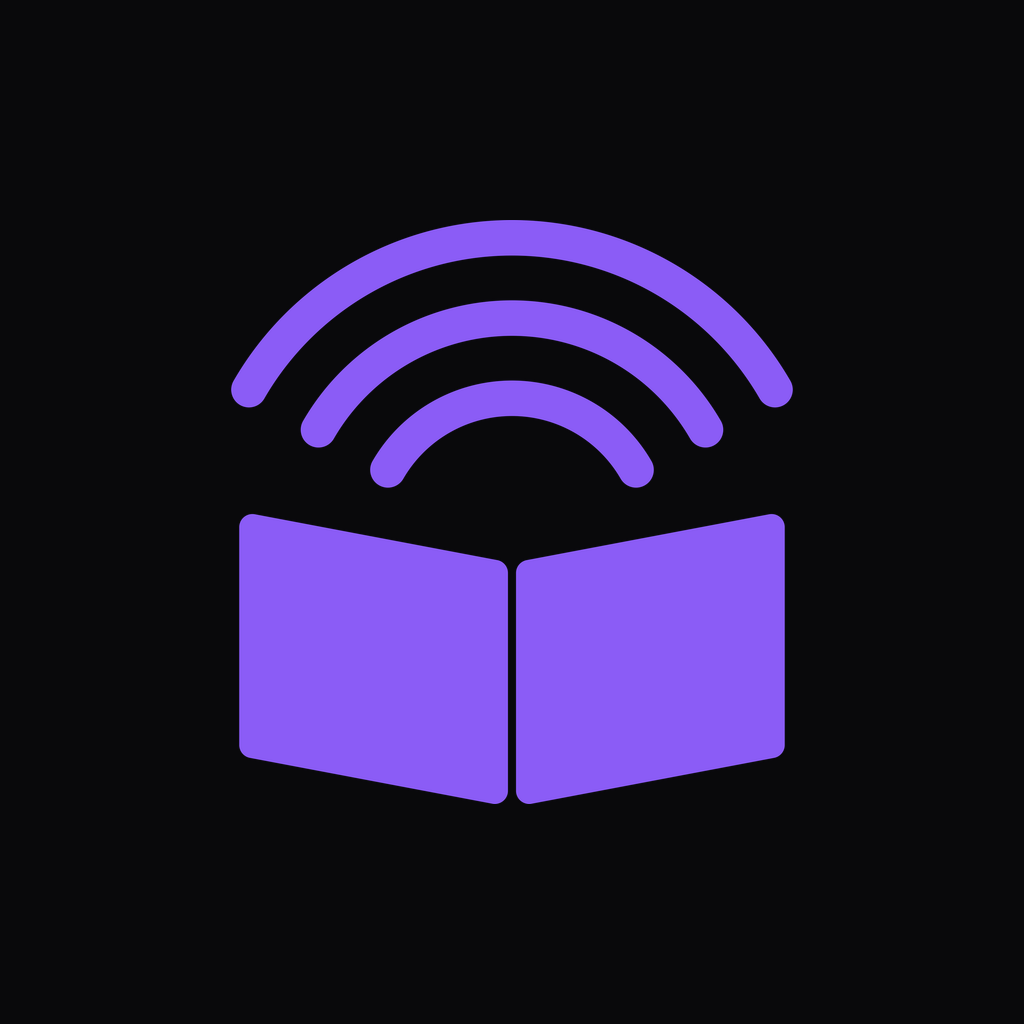
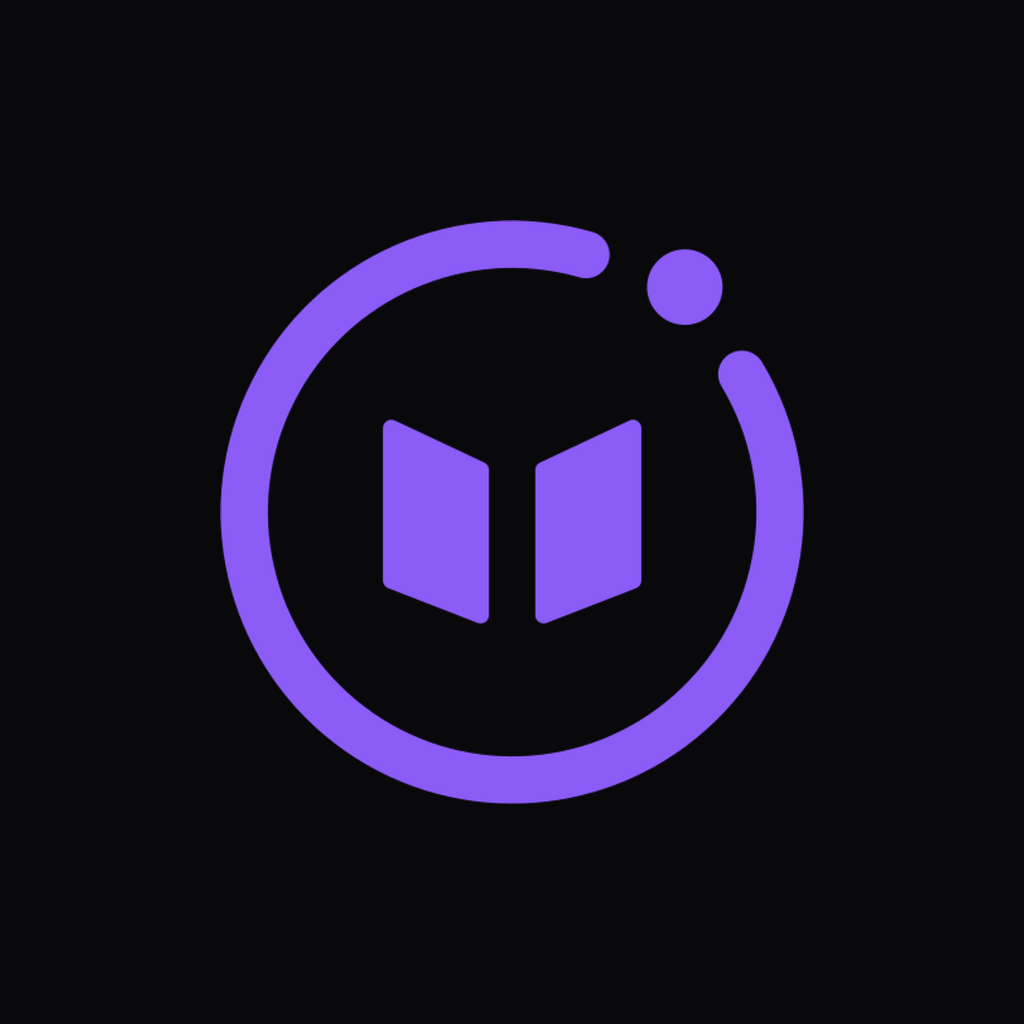
feat(brand): give Lidar the family mark
Replaces the standalone book-and-arcs mark with Radar's scope ring and blip
around an open book, so the three app icons read as a set. The spine gap and
page fan are sized to survive a 16px favicon, where the first attempt closed
up into a solid blob.

Changed region(s): [[0.1875, 0.2188, 0.8125, 0.7812]]

diff --git a/src/app/login.tsx b/src/app/login.tsx
@@ -1,5 +1,4 @@
 import { Redirect, type Href } from 'expo-router';
-import { Disc3 } from 'lucide-react-native';
 import { useState } from 'react';
 import {
   ActivityIndicator,
@@ -15,6 +14,7 @@ import {
 } from 'react-native';
 
 import GoogleIcon from '@/assets/brand/google.svg';
+import Logo from '@/assets/brand/logo.svg';
 import { useToast } from '@/components/ui/Toast';
 import { signInWithEmail, signInWithGoogle, signUpWithEmail } from '@/features/auth/authActions';
 import { useAuth } from '@/features/auth/AuthProvider';
@@ -61,7 +61,7 @@ export default function Login() {
         >
           <View className="items-center gap-2">
             <View className="h-20 w-20 items-center justify-center rounded-2xl bg-primary/10">
-              <Disc3 size={44} color={COLORS.accent} />
+              <Logo width={48} height={48} />
             </View>
             <Text className="text-4xl font-bold tracking-tight text-foreground">Lidar</Text>
             <Text className="text-center text-muted-foreground">Curate your physical &amp; digital library.</Text>

diff --git a/assets/brand/README.md b/assets/brand/README.md
@@ -1,0 +1,28 @@
+# Lidar brand assets
+
+The mark is a lidar scope: an open ring sweeping around an open book, with the
+blip breaking out of the gap - one title, spotted. Everything is drawn on a
+64x64 grid so it stays crisp at 16px in the header and at 1024px as an app icon.
+
+It is deliberately the *same* mark as Radar's and the other sibling's - the same
+ring, the same blip, the same stroke weight - with only the centre glyph and the
+colour changed. Three apps, one family: put the icons side by side and they read
+as a set rather than as three unrelated projects.
+
+| File               | Use                                                                  |
+| ------------------ | -------------------------------------------------------------------- |
+| `logo.svg`         | The mark. Imported as a component (`import Logo from '@/assets/brand/logo.svg'`). |
+| `logo-mono.svg`    | Single-colour mark using `currentColor` - pass `color` to tint it.    |
+| `splash.svg`       | The mark, for splash/launch surfaces.                                |
+
+`logo.svg` is the single source of truth for every PNG in `assets/images/`.
+After editing it, regenerate them:
+
+```bash
+npm run icons
+```
+
+## Palette
+
+One flat colour, no gradients: `#8B5CF6` - the `--primary` token from
+`src/theme/colors.ts`. The backdrop everywhere is `#09090B` (`--background`).

diff --git a/UPDATE.md b/UPDATE.md
@@ -14,3 +14,4 @@ See `UPDATE-schema.md` for how to write these.
 - See reading stats: pages and books finished, rating curve, decades, most-read authors
 - Follow friends' reading in the Social feed, with reactions and comments
 - Share one account, friend list and privacy switch with Radar and Sonar
+- Sign-in screen leads with the Lidar mark, a lidar scope sweeping an open book
